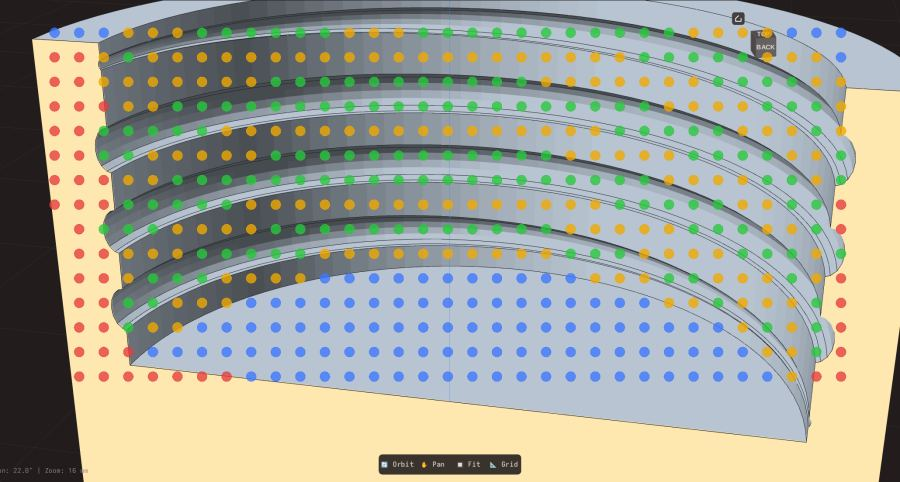
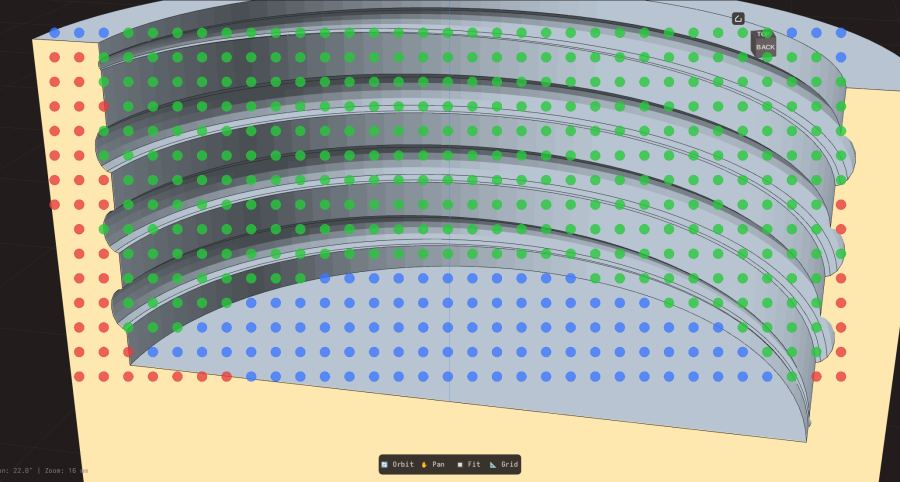
fix(offset-face): the wall between thread turns changes the thread too (v0.7.9.35)

diff --git a/omacad/model/features/thread.py b/omacad/model/features/thread.py
@@ -96,6 +96,26 @@ class ThreadFeature(Feature):
                     return 1 if n_tri[i] @ n > 0 else -1
         return 0
 
+    def cylinder_sign(self, ref, shifts) -> int:
+        """For a picked cylinder face (the wall between the turns, a bore or pin carrying this thread): +1 / -1 when it
+        is coaxial with the thread, about the thread's diameter and inside its length, so Offset Face changes the thread
+        instead (+1: a pin, the coil belongs to its material; -1: a hole the coil was cut from); 0 otherwise."""
+        if self.plane_origin is None or self.plane_normal is None:
+            return 0
+        n = np.asarray(self.plane_normal, dtype=float)
+        n = n / max(float(np.linalg.norm(n)), 1e-12)
+        a = np.asarray(ref["axis"], dtype=float)
+        a = a / max(float(np.linalg.norm(a)), 1e-12)
+        if np.linalg.norm(np.cross(a, n)) > 0.01 or abs(float(ref["radius"]) - 0.5 * self.diameter) > 0.6 * self.pitch:
+            return 0
+        start = np.asarray(self.plane_origin, dtype=float) + n * self.start_offset()
+        for shift in shifts:
+            d = np.asarray(ref["origin"], dtype=float) - np.asarray(shift, dtype=float) - start
+            along = float(d @ n)
+            if np.linalg.norm(d - along * n) < 0.05 and -0.5 * self.pitch <= along <= self.length + 0.5 * self.pitch:
+                return -1 if ref.get("internal") else 1
+        return 0
+
     def build_solid(self) -> m3d.Manifold:
         include_core = (self.operation == "new_body" or not self.target_body_id) and not self.is_female
         attached = bool(self.target_body_id and self.operation == "join" and not self.is_female)

diff --git a/tests/test_offset_face_thread.py b/tests/test_offset_face_thread.py
@@ -69,3 +69,24 @@ def test_preview_equals_result_and_leaves_document_alone():
     assert abs(doc.bodies["body_split_2"].manifold.volume() - v0) < 1e-9
     doc.add_offset_face("body_split_2", last.faces, -0.2)
     assert abs(preview.volume() - doc.bodies["body_split_2"].manifold.volume()) < 1e-6
+
+
+def test_click_on_the_wall_between_the_turns_changes_the_thread():
+    """The user's own click (burk med coils.omacad): the bore wall between the turns is a cylinder face. Before, it went
+    to the cylinder offset, which could not move a band that short (nothing happened)."""
+    doc = Exporter.load_project(str(Path(__file__).parent / "data" / "offset_face_thread_band.omacad"))
+    last = doc.timeline.features[-1]
+    assert last.faces[0]["kind"] == "cylinder" and last.faces[0]["internal"]
+    last.suppressed = True
+    doc.timeline.recompute(doc)
+    thread, sign = doc._thread_offset(last.faces)
+    assert thread.feature_type == "thread" and sign == -1          # a hole: minus widens the groove
+    v0, g0 = doc.bodies["body_split_2"].manifold.volume(), thread.grow
+    doc.add_offset_face("body_split_2", last.faces, -0.2)
+    assert abs(thread.grow - g0 - 0.2) < 1e-9 and doc.bodies["body_split_2"].manifold.volume() < v0 - 40
+
+
+def test_cylinder_far_from_the_thread_is_not_taken():
+    doc, last = _doc()
+    far = {"kind": "cylinder", "origin": [0, 0, 0], "axis": [0, 0, 1], "radius": 12.0, "length": 10.0, "internal": False}
+    assert doc._thread_offset([far]) is None                        # the outside of the jar, below the thread

diff --git a/omacad/model/document.py b/omacad/model/document.py
@@ -831,8 +831,9 @@ class Document:
         return feat
 
     def _thread_offset(self, faces):
-        """(thread feature, sign) when every picked face is a curved surface of the same thread's coil, else None."""
-        if not faces or any(r.get("kind") != "surface" for r in faces):
+        """(thread feature, sign) when every picked face belongs to the same thread: its coil, or the wall between the
+        turns (a coaxial cylinder inside the threaded length). Else None."""
+        if not faces or any(r.get("kind") not in ("surface", "cylinder") for r in faces):
             return None
         feats = self.timeline.features
         for i, f in enumerate(feats):
@@ -845,7 +846,8 @@ class Document:
                         break
                     here = here + (g.dx, g.dy, g.dz)
                     shifts.append(tuple(here))
-            signs = {f.surface_sign(r["point"], r["normal"], shifts) for r in faces}
+            signs = {f.surface_sign(r["point"], r["normal"], shifts) if r["kind"] == "surface" else f.cylinder_sign(r, shifts)
+                     for r in faces}
             if len(signs) == 1 and 0 not in signs:
                 return f, signs.pop()
         return None

diff --git a/omacad/__init__.py b/omacad/__init__.py
@@ -1,3 +1,3 @@
 # Omacad - Native CAD for Omarchy
 # Versioning: 0.x while the feature set is growing; 1.0 = a complete, dependable CAD.
-__version__ = "0.7.9.34"
+__version__ = "0.7.9.35"

diff --git a/omacad.md b/omacad.md
@@ -58,6 +58,7 @@ En guide = mappen `omacad/guides/<id>/` med `guide.json` (`id`, `title`, `steps`
 Kör på den riktiga skärmen (Wayland); offscreen ger ingen GL-kontext. Sätt `QSurfaceFormat` med depth 24 före `QApplication`, vänta ~1,5 s efter `show()`, använd små former (vyn är bara ca 410 px bred eftersom inspektören tar resten) och rikta vyn med `align_to_plane` före musklick. `QTest.mouseMove` är opålitlig här: anropa `mouseMoveEvent` direkt vid behov. Ändra aldrig det riktiga temat i tester (peka `theme.COLORS_FILE` på en tema-fil i stället). Modal dialog som blockerar: ersätt `prompt_dimension_value` med en lambda.
 
 ## Lösningslogg (rotorsak och rättning, nyast överst)
+- **Offset Face på coil gjorde inget när man klickade mellan varven** (0.7.9.35, användarens `burk med coils.omacad`): väggen mellan varven är en kort cylinderremsa (r=10, längd 2,65); `_offset_face_click` gav en cylinder-ref och `offset_cylinder` kunde inte flytta den (skipped=1, ingen ändring). Nu tar `Document._thread_offset` även cylinder-ref: `ThreadFeature.cylinder_sign` godkänner en cylinder som är koaxiell med gängan, har radie inom 0,6*pitch från gängans och ligger inom dess längd (tecken: hål -1, tapp +1). Hela gängzonen blir grön i klickkartan. Kontrollerat: fristående rund/trapets-bult och invändig ISO-gänga ger rätt tecken. Begränsning: en Move med vridning efter gängan hittas fortfarande inte. Test: `tests/test_offset_face_thread.py` (dokument `tests/data/offset_face_thread_band.omacad`).
 - **Dolt lock kom tillbaka efter Offset Face på gänga** (0.7.9.34, via användaren: 'den måste ta bort den stora gängan'): `Timeline.recompute` bygger nya `Body`-objekt ur cachen och `visible` (ögat i Browser) är bara ett fält på objektet, så varje ombyggnad gjorde alla dolda kroppar synliga igen (Locket med den stora gängan låg då inne i burken). Nu minns `recompute` vilka kroppar som var dolda och döljer dem igen efteråt. Gäller alla ombyggnader, inte bara Offset Face. Test: `tests/test_hidden_body_stays_hidden.py`. Obs: ångra (`restore`) återställer fortfarande synlighet eftersom den inte sparas i dokumentet.
 - **Guider i appen** (0.7.9.33, önskemål): se avsnittet *Guider i appen* ovan. Första guiden `offset_face_thread` (välj Burk, dölj Locket, klicka gröna flanker, skriv minus/plus, OK). Orange yta = borrväggen (cylinder, flyttar hela hålet), inte gängan.
 - **Offset Face på gänga ändrar Thread-steget** (0.7.9.29, idé från Björn efter F9 om hackig coil): mesh-flytten (`offset_surfaces`) ger alltid brus på tunna trianglar, så `Document.add_offset_face` frågar först `_thread_offset(faces)`: ligger varje vald kurvyta på en `ThreadFeature`s spole (`ThreadFeature.surface_sign`: punkt i spolens trianglar, normal parallell; ±1 = vetter åt/mot spolens utsida; hänsyn till senare Move som bara flyttar, inte vrider) så görs `thread.grow += tecken*d` och tidslinjen byggs om (inget Offset Face-steg, ett ångra-steg). `CadKernel.create_thread(grow=...)` offsettar tandprofilen på alla sidor (rund: a_r/a_z, trapets/ISO: flankerna längs normalen; axiellt max 0,49*pitch). Övriga kurvor använder fortfarande mesh-flytten. Förhandsvisningen går också via gängan (`Document.thread_offset_result`, ändrar `grow`, bygger om, återställer). Lärdom (0.7.9.31): användaren bedömde fnaset på förhandsvisningen, som fortfarande var mesh-flytten. Titta på resultatet i riktiga vyn: `tests/test_offset_face_thread_look.py` renderar och mäter 'ränder' (andel horisontell/vertikal ljusförändring: ren gänga ~0,4, fnasig mesh ~0,65). Vridna Move efter gängan hittas inte (faller tillbaka). Test: `tests/test_offset_face_thread.py`. Dialogen (0.7.9.30) har `lbl_note` (`set_note`) som `refresh_preview` fyller med vad OK gör för en gängyta, plus en passhjälptext i `HINT`.

diff --git a/CHANGELOG.md b/CHANGELOG.md
@@ -3,6 +3,11 @@
 Versions: 0.x while the feature set is still growing, 1.0 when Omacad is a complete and dependable CAD.
 The version lives in `omacad/__init__.py`; every build is published as release `v<version>` (and as `latest`).
 
+## 0.7.9.35 - 2026-10-16
+
+### Fixed
+- Offset Face on a thread did nothing when the click landed on the wall between the turns (a short cylinder band, "could not be moved"). A cylinder that is coaxial with a thread and inside its length now changes the Thread step too, so the whole threaded zone works.
+
 ## 0.7.9.34 - 2026-10-16
 
 ### Fixed
